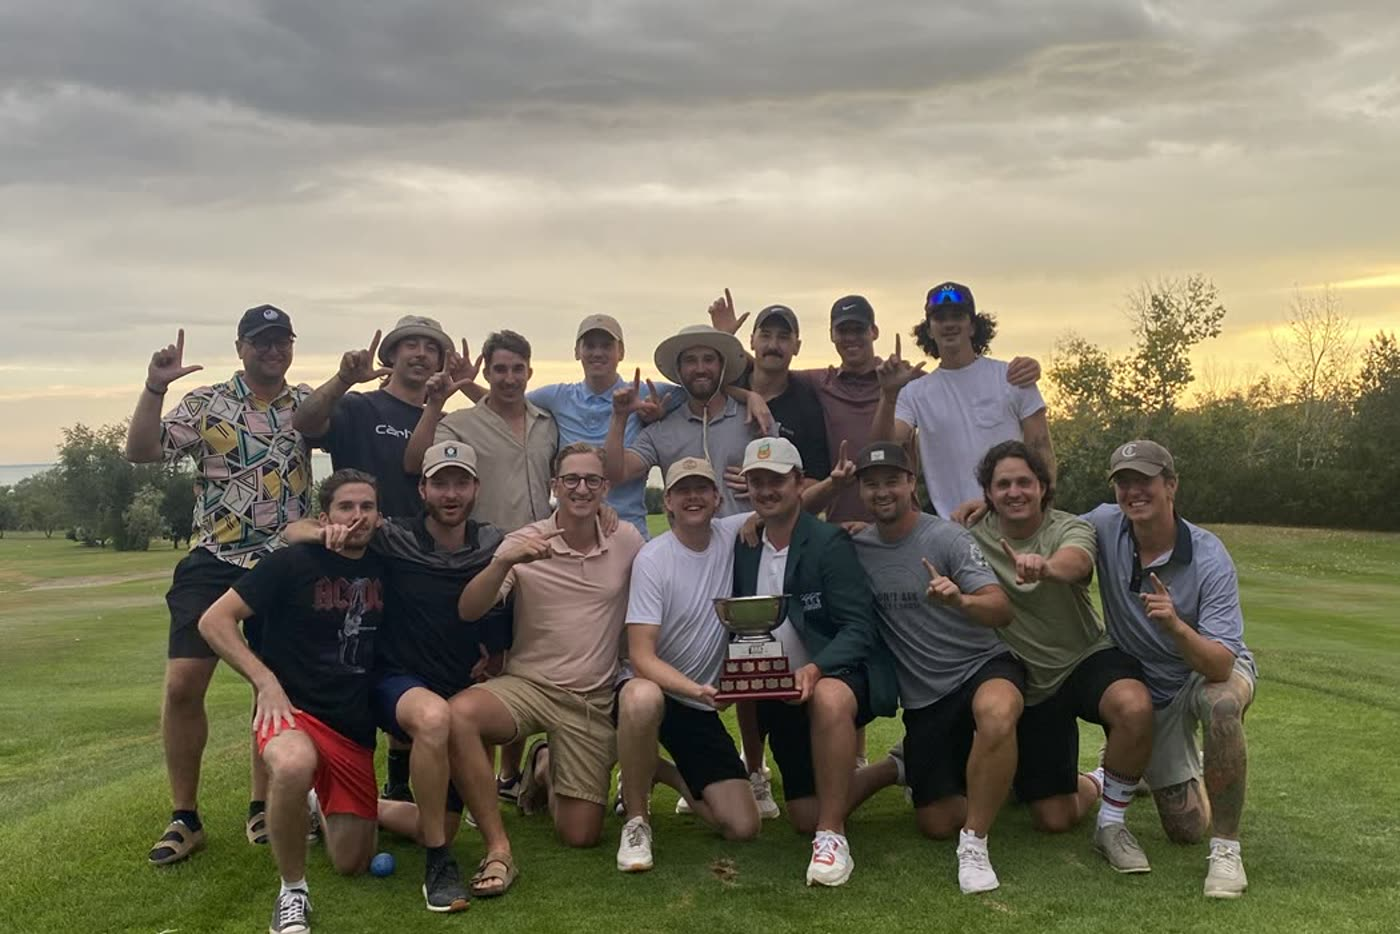
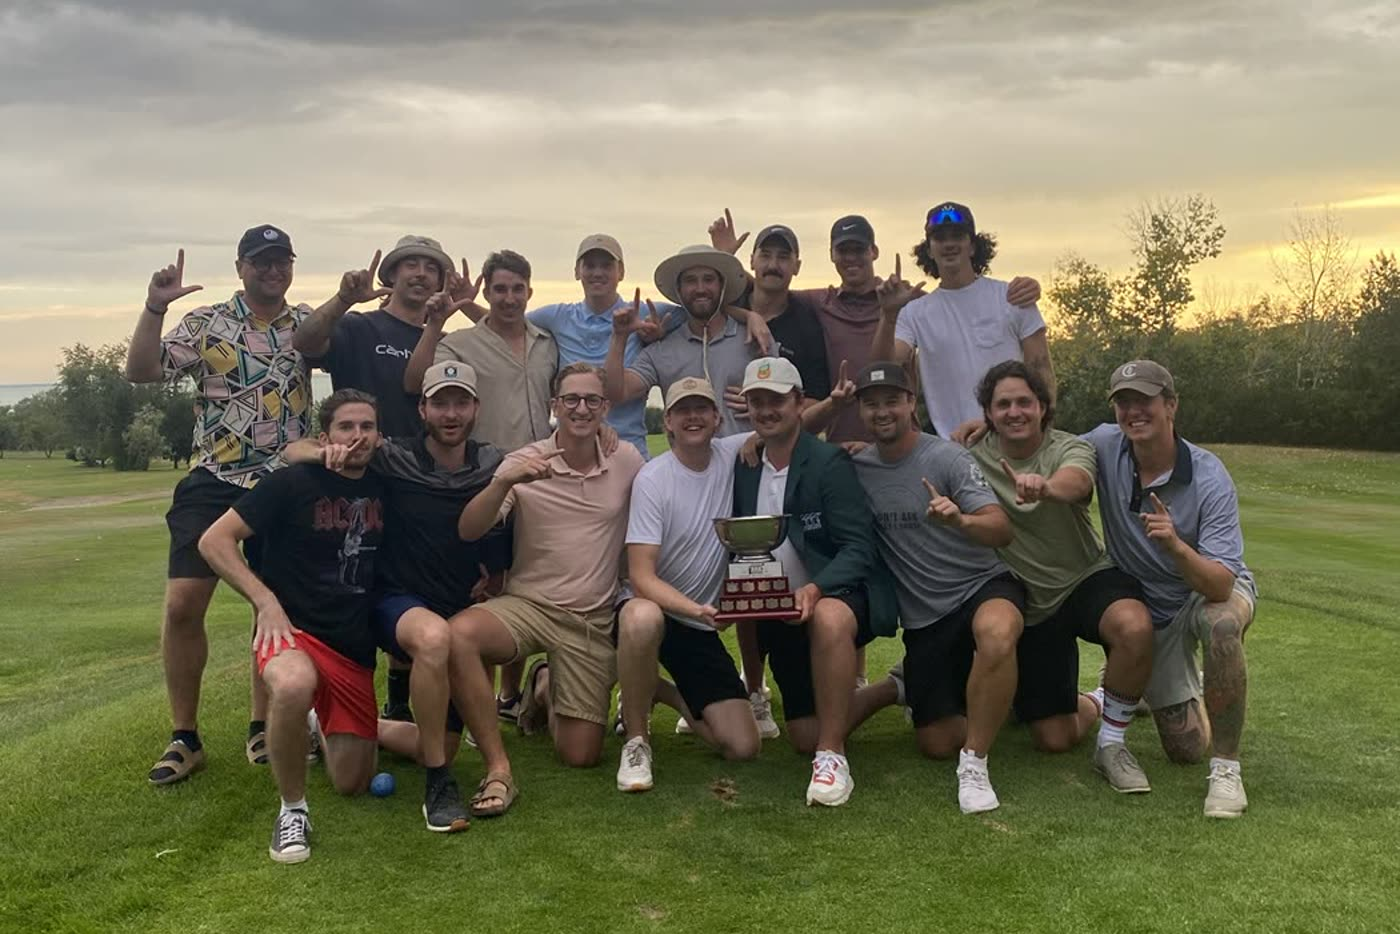
Home page: 2022 crop to y=460, remove the photo click state (#88)
2022 moves from y=400 to y=460, your pick of the four.

The photos are no longer clickable. Removed the lightbox element, its
stylesheet rules and its whole script block, the zoom-in cursor and the
hover fade, the data-full attributes that fed it, and the galleryGrid id
that existed only so the script could find the container.

photos/full is deliberately left in place even though nothing on the
page requests it now. Those are the only web-sized copies of the
uncropped originals, and re-cropping needs them: both 2022 passes were
cut from photos/full/2022.jpg, not from the already-cropped file, which
is what kept the quality. They are never fetched by a visitor.

Verified in Chromium at 1000px and on an iPhone 13 viewport: no
lightbox element, no data-full attributes, computed cursor on a photo is
auto rather than zoom-in, and a forced click on a photo changes nothing
- no element appears, body classes unchanged, document height unchanged.
All five still load and measure 3:2. No 4xx, no page errors.

Claude-Session: https://claude.ai/code/session_01KfpLmeKaa9STdTQ64VVBsY

diff --git a/index.html b/index.html
@@ -69,22 +69,13 @@
     .gallery-caption { margin-top: 0.65rem; font-size: 12px; color: var(--text-tertiary); }
     .gallery-caption .cap-year { color: var(--text); font-weight: 500; }
     /* One per row, every photo cropped to the same 3:2 frame and filled, so the
-       stack reads as one set. cover zooms in; the lightbox shows the whole frame. */
+       stack reads as one set. */
     .gallery-item img { display: block; width: 100%; height: auto; aspect-ratio: 3 / 2;
                         object-fit: cover; object-position: center;
                         border-radius: var(--radius-lg); border: 0.5px solid var(--border);
-                        background: var(--border); cursor: zoom-in; transition: opacity 0.15s; }
-    .gallery-item img:hover { opacity: 0.88; }
+                        background: var(--border); }
     @media (max-width: 600px) { .gallery { padding-top: 2rem; } .gallery-grid { gap: 1.5rem; } }
 
-    /* Lightbox */
-    #lightbox { position: fixed; inset: 0; z-index: 9998; background: var(--bg);
-                display: none; align-items: center; justify-content: center; padding: 1rem;
-                cursor: zoom-out; }
-    #lightbox.is-open { display: flex; }
-    #lightbox img { max-width: 100%; max-height: 92vh; width: auto; height: auto;
-                    object-fit: contain; border-radius: var(--radius-lg); }
-    body.lb-open { overflow: hidden; }
 
     /* Intro overlay */
     #intro { position: fixed; inset: 0; z-index: 9999; background: var(--bg);
@@ -207,54 +198,30 @@
   </div>
 
   <section class="gallery">
-    <div class="gallery-grid" id="galleryGrid">
+    <div class="gallery-grid">
       <figure class="gallery-item">
-        <img src="photos/2026.jpg" alt="Frends VI, 2026, Nipawin, Saskatchewan" loading="lazy" decoding="async" width="1400" height="932" data-full="photos/full/2026.jpg">
+        <img src="photos/2026.jpg" alt="Frends VI, 2026, Nipawin, Saskatchewan" loading="lazy" decoding="async" width="1400" height="932">
         <figcaption class="gallery-caption"><span class="cap-year">2026</span> &middot; Frends VI &middot; Nipawin, SK</figcaption>
       </figure>
       <figure class="gallery-item">
-        <img src="photos/2025.jpg" alt="Frends V, 2025, Kelowna, British Columbia" loading="lazy" decoding="async" width="1400" height="934" data-full="photos/full/2025.jpg">
+        <img src="photos/2025.jpg" alt="Frends V, 2025, Kelowna, British Columbia" loading="lazy" decoding="async" width="1400" height="934">
         <figcaption class="gallery-caption"><span class="cap-year">2025</span> &middot; Frends V &middot; Kelowna, BC</figcaption>
       </figure>
       <figure class="gallery-item">
-        <img src="photos/2024.jpg" alt="Frends IV, 2024, Candle Lake, Saskatchewan" loading="lazy" decoding="async" width="1400" height="932" data-full="photos/full/2024.jpg">
+        <img src="photos/2024.jpg" alt="Frends IV, 2024, Candle Lake, Saskatchewan" loading="lazy" decoding="async" width="1400" height="932">
         <figcaption class="gallery-caption"><span class="cap-year">2024</span> &middot; Frends IV &middot; Candle Lake, SK</figcaption>
       </figure>
       <figure class="gallery-item">
-        <img src="photos/2023.jpg" alt="Frends III, 2023, Elbow, Saskatchewan" loading="lazy" decoding="async" width="1400" height="932" data-full="photos/full/2023.jpg">
+        <img src="photos/2023.jpg" alt="Frends III, 2023, Elbow, Saskatchewan" loading="lazy" decoding="async" width="1400" height="932">
         <figcaption class="gallery-caption"><span class="cap-year">2023</span> &middot; Frends III &middot; Elbow, SK</figcaption>
       </figure>
       <figure class="gallery-item">
-        <img src="photos/2022.jpg" alt="Frends II, 2022, Jackfish Lake, Saskatchewan" loading="lazy" decoding="async" width="1400" height="934" data-full="photos/full/2022.jpg">
+        <img src="photos/2022.jpg" alt="Frends II, 2022, Jackfish Lake, Saskatchewan" loading="lazy" decoding="async" width="1400" height="934">
         <figcaption class="gallery-caption"><span class="cap-year">2022</span> &middot; Frends II &middot; Jackfish Lake, SK</figcaption>
       </figure>
     </div>
   </section>
 </main>
-
-<div id="lightbox" aria-hidden="true"><img id="lightboxImg" src="" alt=""></div>
-<script>
-(function(){
-  var grid = document.getElementById('galleryGrid'),
-      box  = document.getElementById('lightbox'),
-      img  = document.getElementById('lightboxImg');
-  function open(src, alt){
-    img.src = src; img.alt = alt || '';
-    box.classList.add('is-open'); box.setAttribute('aria-hidden','false');
-    document.body.classList.add('lb-open');
-  }
-  function close(){
-    box.classList.remove('is-open'); box.setAttribute('aria-hidden','true');
-    document.body.classList.remove('lb-open'); img.src = '';
-  }
-  grid.addEventListener('click', function(e){
-    var t = e.target;
-    if (t && t.tagName === 'IMG') open(t.getAttribute('data-full') || t.getAttribute('src'), t.getAttribute('alt'));
-  });
-  box.addEventListener('click', close);
-  document.addEventListener('keydown', function(e){ if (e.key === 'Escape') close(); });
-})();
-</script>
 
 <script>
 function toggleNav(){
